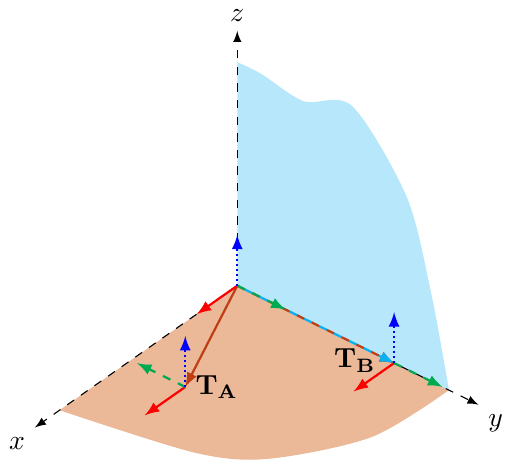
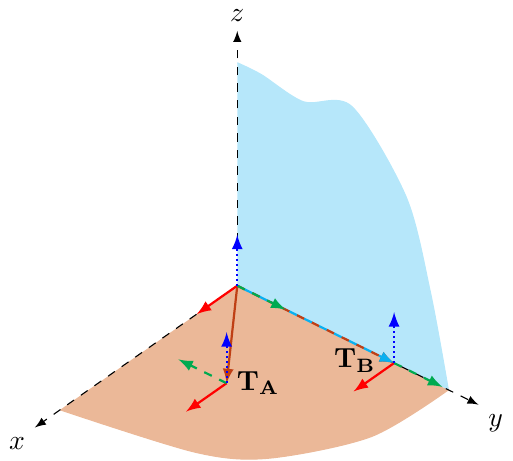
Move TA for all the nonorientable topologies. In E9 and E10 TA looked like -TB2 or -TB. Moved the location of TA but preserved the condition that TAy < TB1y/2. Moved TB label for E10 to not overlap.

diff --git a/E10/E10.tex b/E10/E10.tex
@@ -56,7 +56,7 @@
 \tikzfillbetween[of=xz and xaxis] {Violet!30};
 
 % Copied from E9.
-\coordinate (A) at (2.1, 0.9, 0);
+\coordinate (A) at (1.7, 1.25, 0);
 \coordinate (B) at (0, 2.6, 0);
 \coordinate (C) at (1.2, 1.3, 1.9);
 \coordinate (D) at (1.2, 1.3, 0);
@@ -98,10 +98,16 @@
 	anchor=south east, xshift=-2pt, yshift=-7pt
 ] {\textcolor{black}{\(\mathbf{T_{C}}\)}};
 
+% \draw[
+% 	vector, Brown
+% ] (O) -- (C) node [
+% 	anchor=north east, xshift=2pt, yshift=4pt
+% ]{\textcolor{black}{\(\mathbf{T_{B}}\)}};
+
 \draw[
 	vector, Brown
 ] (O) -- (C) node [
-	anchor=north east, xshift=2pt, yshift=4pt
+	anchor=north west, xshift=-2pt, yshift=-4pt
 ]{\textcolor{black}{\(\mathbf{T_{B}}\)}};
 
 \draw[vector help] (C) -- (D);

diff --git a/E9/E9.tex b/E9/E9.tex
@@ -56,7 +56,7 @@
 \tikzfillbetween[of=xz and xaxis] {Violet!30};
 
 % Copied from E7 and modified y component of C, as required.
-\coordinate (A) at (2.1, 0.9, 0);
+\coordinate (A) at (1.7, 1.25, 0);
 \coordinate (B) at (0, 2.6, 0);
 \coordinate (C) at (1.2, 1.3, 1.9);
 \coordinate (D) at (1.2, 1.3, 0);

diff --git a/E7/E7.tex b/E7/E7.tex
@@ -56,7 +56,7 @@
 \tikzfillbetween[of=xz and xaxis] {Violet!30};
 
 % Coordinates consistent with the minimal constraints we impose.
-\coordinate (A) at (2.1, 0.9, 0);
+\coordinate (A) at (1.7, 1.25, 0);
 \coordinate (B) at (0, 2.6, 0);
 \coordinate (C) at (1.2, 0, 1.9);
 

diff --git a/E13/E13.tex b/E13/E13.tex
@@ -57,7 +57,7 @@
 % \tikzfillbetween[of=yz and yaxis] {ProcessBlue!30};
 \tikzfillbetween[of=xz and xaxis] {Violet!30};
 
-\coordinate (A) at (2.1, 0.9, 0);
+\coordinate (A) at (1.7, 1.25, 0);
 \coordinate (B) at (0, 2.6, 0);
 \coordinate (C) at (1.2, 0, 1.9);
 

diff --git a/E14/E14.tex b/E14/E14.tex
@@ -57,7 +57,7 @@
 \tikzfillbetween[of=yz and yaxis] {ProcessBlue!30};
 % \tikzfillbetween[of=xz and xaxis] {Violet!30};
 
-\coordinate (A) at (2.1, 0.9, 0);
+\coordinate (A) at (1.7, 1.25, 0);
 \coordinate (B) at (0, 2.6, 0);
 \coordinate (C) at (1.2, 0, 1.9);
 

diff --git a/E15/E15.tex b/E15/E15.tex
@@ -49,7 +49,7 @@
 \tikzfillbetween[of=xz and xaxis] {Violet!30};
 
 % Copied from E8
-\coordinate (A) at (2.1, 0.9, 0);
+\coordinate (A) at (1.7, 1.25, 0);
 \coordinate (B) at (0, 2.6, 0);
 \coordinate (C) at (1.2, 0, 1.9);
 

diff --git a/E8/E8.tex b/E8/E8.tex
@@ -56,7 +56,7 @@
 \tikzfillbetween[of=xz and xaxis] {Violet!30};
 
 % Copied from E7
-\coordinate (A) at (2.1, 0.9, 0);
+\coordinate (A) at (1.7, 1.25, 0);
 \coordinate (B) at (0, 2.6, 0);
 \coordinate (C) at (1.2, 0, 1.9);
 
